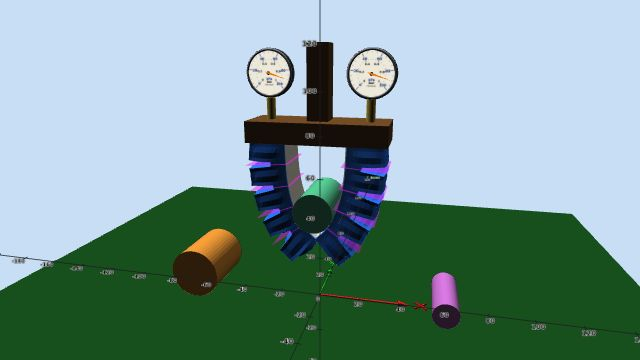
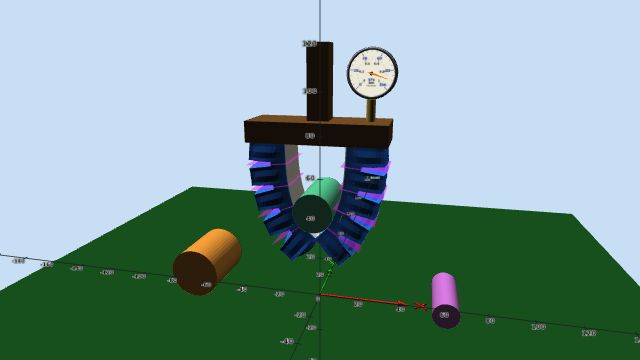
MultiSim: Gripper 4 box, faster flange, gauge beside the arm, lobby intro
- Gripper 4: a large open box fixed to the floor (bin_* parameters, items-in-box
  readout); flange y slider up to 330 mm.
- Grippers 3 and 4: flange acceleration 0.5 m/s2, speed 0.25 m/s.
- Grippers 1-4: the single pressure gauge sits beside the central arm;
  thumbnails re-rendered.
- Simulations page: an introductory paragraph.

Claude-Session: https://claude.ai/code/session_01FSyTfhLHAAQNxCSAHJeZv8

diff --git a/MultiSim/orchestrator/static/index.html b/MultiSim/orchestrator/static/index.html
@@ -21,6 +21,8 @@
 			</div>
 		</header>
 
+		<p class="intro">A collection of simplistic SOFA simulations primarily developed within the CloSer project. The scenes are generally designed to be simulated approximately in real-time and therefore rather simplistic. Multiple visitors can simultaneously interact with the simulations and adjust the settings etc. as each simulation runs in a separate process. If the server becomes overloaded by too many visitors then the maximum number of concurrent simulations may be constrained, or other measures applied. The <a href="https://github.com/vgroenhuis/SOFA_CloSer" target="_blank" rel="noopener">source is public</a>, so you can also clone it and run simulations locally, either natively using SOFA or in a container. More complex and realistic simulations are conducted offline by the team on different computers.</p>
+
 		<section id="mine-section" class="hidden">
 			<h2>Your simulations</h2>
 			<div class="sim-list" id="mine-list"></div>

diff --git a/MultiSim/orchestrator/static/style.css b/MultiSim/orchestrator/static/style.css
@@ -83,6 +83,7 @@ label { color: var(--text-2); font-size: 13px; }
 }
 .page-header p { margin: 4px 0 0; color: var(--muted); }
 .home-link { display: inline-block; margin-bottom: 4px; text-decoration: none; }
+.intro { max-width: 80ch; margin: -12px 0 28px; color: var(--muted); line-height: 1.5; }
 
 section { margin-bottom: 32px; }
 

diff --git a/MultiSim/scenes/gripper-4/sofaweb_scene.py b/MultiSim/scenes/gripper-4/sofaweb_scene.py
@@ -24,7 +24,8 @@ def _world(root):
 class _Probes:
     """The applied pressure; the fingers' bend (the sum of a finger's hinge angles: the tilt of its tip against the
     end-effector, positive curling inwards; the mean over the fingers, and the least and most); where the end-effector
-    is; and per item, how far it has been lifted (its centre above where it started on the floor)."""
+    is; per item, how far it has been lifted (its centre above where it started on the floor); and how many items
+    are in the large box (their centres inside it, below its rim)."""
 
     def __call__(self, root, module):
         build = module.BUILD
@@ -43,9 +44,13 @@ class _Probes:
         values["flange_y"] = (float(p[1]) - rest[1]) * 1000.0
         values["flange_z"] = FLANGE_START_Z + (float(p[2]) - rest[2]) * 1000.0
         items = _world(root).getChild("items")
+        box, inside = build.get("bin"), 0
         for item in build["items"]:
             q = items.getChild(item["key"]).getObject("dofs").position.value[0]
             values[f"{item['key']}_lift"] = max(0.0, (float(q[2]) - item["rest"][2]) * 1000.0)
+            if box and box[0] < float(q[0]) < box[2] and box[1] < float(q[1]) < box[3] and float(q[2]) < box[4]:
+                inside += 1
+        values["in_box"] = float(inside)
         return values
 
 
@@ -67,7 +72,7 @@ def _control_flange(axis, origin=0.0):
 
 
 def _gauge(root, module):
-    """A pressure gauge (see SceneConfig.gauge) above the end-effector's plate, in front of its arm, on a 4 mm tube down
+    """A pressure gauge (see SceneConfig.gauge) above the end-effector's plate, beside its arm, on a 4 mm tube down
     into the plate (every finger gets the same pressure: one gauge). It moves with the end-effector. 0-100 kPa."""
     P = module.PARAMS
     mm = 1e-3
@@ -78,11 +83,11 @@ def _gauge(root, module):
     thick = 0.6 * H
     cz = z_palm + thick + 1.12 * R + 0.6 * H
     casing = cz - 1.12 * R
-    y = -(module.BUILD["stem"] + 0.15 * H)  # just in front of the arm (the default view looks along +y)
+    x = module.BUILD["stem"] + 1.25 * R  # on the +x side of the arm, clear of it (the casing is 1.12 R)
     return {
         "key": "applied", "min": 0.0, "max": 100.0, "unit": "kPa", "major": 20.0, "minor": 5.0,
-        "center": [0.0, y, cz], "radius": R, "right": [1.0, 0.0, 0.0], "up": [0.0, 0.0, 1.0],
-        "tube": [[0.0, y, casing], [0.0, y, 0.5 * (casing + z_palm)], [0.0, y, z_palm]],
+        "center": [x, 0.0, cz], "radius": R, "right": [1.0, 0.0, 0.0], "up": [0.0, 0.0, 1.0],
+        "tube": [[x, 0.0, casing], [x, 0.0, 0.5 * (casing + z_palm)], [x, 0.0, z_palm]],
         "tubeRadius": tube_r,
         # the dial and tube move with the end-effector plate (a model: its bounding box's centre at rest is given)
         "follow": "(^|/)trunk/visual$", "followRest": list(module.BUILD["flange_rest"]),
@@ -112,9 +117,11 @@ _DEFAULT = {
     "floor_size": 600.0,
     "joint_stiffness": 0.34, "joint_damping": 0.01, "joint_open_limit": 90.0, "joint_stop_stiffness": 5.0,
     "pressure_torque_gain": 1.0,
-    "flange_acceleration": 0.06, "flange_speed": 0.15, "flange_mass": 0.5, "wrist_stiffness": 3000.0,
+    "flange_acceleration": 0.5, "flange_speed": 0.25, "flange_mass": 0.5, "wrist_stiffness": 3000.0,
     **{f"item_{k}": True for k in ITEM_KEYS},
     "item_mass_scale": 1.0, "item_spacing": 1.0, "item_yaw": 45.0,
+    "bin_enabled": True, "bin_x": 0.0, "bin_y": 290.0, "bin_length": 220.0, "bin_width": 130.0, "bin_height": 70.0,
+    "bin_wall": 8.0,
     "friction": 0.6, "contact_distance": 0.5, "alarm_distance": 5.0,
     "density": 1000.0, "gravity_enabled": True, "ramp_start": 0.0, "ramp_time": 0.5, "dt": 0.02,
 }
@@ -212,6 +219,12 @@ CONFIG = SceneConfig(
         "contact_distance": (0.05, 5.0),
         "alarm_distance": (0.5, 30.0),
         "item_alpha": (0.0, 1.0),
+        "bin_x": (-600.0, 600.0),
+        "bin_y": (-600.0, 600.0),
+        "bin_length": (40.0, 600.0),
+        "bin_width": (40.0, 600.0),
+        "bin_height": (10.0, 250.0),
+        "bin_wall": (2.0, 40.0),
         "density": (10.0, 20000.0),
         "ramp_start": (0.0, 60.0),
         "ramp_time": (0.0, 60.0),
@@ -229,6 +242,7 @@ CONFIG = SceneConfig(
         ("End-effector motion", ["flange_acceleration", "flange_speed", "flange_mass", "wrist_stiffness"]),
         ("Items on the floor", [f"item_{k}" for k in ITEM_KEYS] + ["item_mass_scale", "item_spacing", "item_yaw",
                                                                    "floor_size"]),
+        ("Large box", ["bin_enabled", "bin_x", "bin_y", "bin_length", "bin_width", "bin_height", "bin_wall"]),
         ("Contact", ["friction", "contact_distance", "alarm_distance"]),
         ("Material", ["density", "gravity_enabled"]),
         ("Simulation", ["dt"]),
@@ -240,9 +254,9 @@ CONFIG = SceneConfig(
         {"key": "flange_x", "label": "Flange x", "type": "slider", "wide": True, "min": -250, "max": 250, "step": 1,
          "default": 0, "unit": "mm", "digits": 0, "apply": _control_flange("X"),
          "description": "Move the end-effector left / right. It moves at a limited speed."},
-        {"key": "flange_y", "label": "Flange y", "type": "slider", "wide": True, "min": -250, "max": 250, "step": 1,
+        {"key": "flange_y", "label": "Flange y", "type": "slider", "wide": True, "min": -250, "max": 330, "step": 1,
          "default": 0, "unit": "mm", "digits": 0, "apply": _control_flange("Y"),
-         "description": "Move the end-effector towards the back (+) or the front (-)."},
+         "description": "Move the end-effector towards the back (+, the large box is at 290 mm) or the front (-)."},
         {"key": "flange_z", "label": "Flange z", "type": "slider", "wide": True, "min": 30, "max": 300, "step": 1,
          "default": FLANGE_START_Z, "unit": "mm", "digits": 0, "apply": _control_flange("Z", FLANGE_START_Z),
          "description": "Height of the end-effector's underside above the floor: lower it to put the fingers "
@@ -254,6 +268,7 @@ CONFIG = SceneConfig(
         {"key": "joint_alpha", "label": "Hinge mark opacity", "type": "opacity", "models": r"(^|/)bodies/joint_marks/visual$"},
         {"key": "item_alpha", "label": "Item opacity", "type": "opacity",
          "models": r"(^|/)items/[^/]+/(visu|detail\d+)/visual$"},
+        {"key": "bin_alpha", "label": "Large box opacity", "type": "opacity", "models": r"^/bin/(visu|bottom)/visual$"},
         {"key": "floor_alpha", "label": "Floor opacity", "type": "opacity", "models": r"^/floor/visu/visual$"},
         {"key": "mount_alpha", "label": "End-effector opacity", "type": "opacity", "models": r"(^|/)trunk/visual$"},
         {"key": "axes_alpha", "label": "Coordinate axes (X, Y) opacity", "type": "opacity",
@@ -284,6 +299,7 @@ CONFIG = SceneConfig(
         {"key": "flange_x", "label": "flange x", "digits": 1, "unit": "mm"},
         {"key": "flange_y", "label": "flange y", "digits": 1, "unit": "mm"},
         {"key": "flange_z", "label": "flange z", "digits": 1, "unit": "mm"},
+        {"key": "in_box", "label": "items in the box", "digits": 0, "unit": ""},
     ] + [{"key": f"{k}_lift", "label": f"{ITEM_LABELS[k]} lifted", "digits": 1, "unit": "mm"} for k in ITEM_KEYS],
     stop_at=None,  # interactive: it keeps running
     about=[
@@ -291,10 +307,14 @@ CONFIG = SceneConfig(
         "tomato, an egg, a soda can, a juice box, a spice jar, a yogurt cup, a tea box and a block of butter, with their "
         "real sizes and masses. The number of fingers is a parameter (four by default); they hang from the end-effector "
         "evenly spaced around its axis and curl inwards. In the Controls panel, the pressure slider inflates every finger, "
-        "and the three flange sliders move the end-effector at a limited acceleration and speed.",
+        "and the three flange sliders move the end-effector at a limited acceleration (0.5 m/s2) and speed (0.25 m/s). At "
+        "the back is a large open box fixed to the floor (inside 220 x 130 mm, 70 mm deep, at y = 290 mm) to put the "
+        "items in.",
         "To pick something up: raise the flange high enough to clear it (190 mm at the start), move it over the item (x, "
         "y), lower it until the fingers hang around it (about 60 mm for the egg, the tomato and the apple; just above the "
-        "top for a tall item, e.g. 118 mm for the can), raise the pressure (80 kPa), then raise the flange. The items are "
+        "top for a tall item, e.g. 118 mm for the can), raise the pressure (80 kPa), then raise the flange. To put it in "
+        "the box: raise the flange until the item clears the box's walls (300 mm for the can), move it to y = 290 mm, "
+        "lower it a little and release the pressure. The items are "
         "rigid bodies with friction (0.6): they can be held by friction alone, or by the fingers curling under them, and "
         "they slide, roll and tip over. The butter is too long for four fingers: use the 'Two fingers' preset.",
         "Each finger is a chain of six rigid segments with Gripper 3's hinges (0.34 N m/rad; pressure is a torque of 0.086 "

diff --git a/MultiSim/scenes/gripper-4/original/Gripper4.py b/MultiSim/scenes/gripper-4/original/Gripper4.py
@@ -37,6 +37,9 @@ accelerates smoothly towards the x / y / z set by the sliders (`flange_accelerat
 2 and 3. The spring lets it give way when it is pushed onto the floor or an item (a few millimetres for a few
 newtons), and it moves with a velocity, so that friction carries what it holds along.
 
+The large box. An open box fixed to the floor (`bin_*`: its inside, walls and where it is; at the back by default), to
+put items in: four walls (a static collision model; its bottom is the floor).
+
 Units: the scene is SI (metres, kg, s, Pa); params.json takes millimetres for lengths, as labelled.
 
 
@@ -94,8 +97,8 @@ _DEFAULT_PARAMS = {
     'joint_open_limit': 90.0,    # [deg] largest bend of a hinge (a hard stop beyond it)
     'joint_stop_stiffness': 5.0, # [N m/rad] the hard stops
     'pressure_torque_gain': 1.0, # 1: the torque of the pressure on the cavity's cross-section (see the docstring)
-    'flange_acceleration': 0.06,      # [m/s2] largest acceleration of the end-effector
-    'flange_speed': 0.15,             # [m/s] its largest speed
+    'flange_acceleration': 0.5,       # [m/s2] largest acceleration of the end-effector
+    'flange_speed': 0.25,             # [m/s] its largest speed
     'flange_mass': 0.5,               # [kg] the end-effector (it follows the target on the wrist spring)
     'wrist_stiffness': 3000.0,        # [N/m] the spring between the target and the end-effector (critically damped)
     # -- the items on the floor, and the contacts --
@@ -108,6 +111,14 @@ _DEFAULT_PARAMS = {
     'contact_distance': 0.5,     # [mm] contacts are kept this far apart
     'alarm_distance': 5.0,       # [mm] pairs closer than this are watched for contact
     'item_alpha': 1.0,
+    # -- a large open box fixed to the floor, to put items in --
+    'bin_enabled': True,
+    'bin_x': 0.0, 'bin_y': 290.0,   # [mm] its centre
+    'bin_length': 220.0,            # [mm] inside, along x
+    'bin_width': 130.0,             # [mm] inside, along y
+    'bin_height': 70.0,             # [mm] its walls
+    'bin_wall': 8.0,                # [mm] their thickness
+    'bin_alpha': 1.0,
     # -- material --
     'density': 1000.0,           # [kg/m^3] of the silicone (the segment's mass: the walls' volume)
     'gravity_enabled': True,
@@ -349,7 +360,7 @@ def _cylinder_along(p0, p1, r, n=16):
 # The fingers' collision models: their faces and corners (their edges too would add many edge-edge contacts per item held,
 # several times slower, for little difference: an item's own corners and edges still touch the fingers' faces)
 FINGER_MODELS = ('TriangleCollisionModel', 'PointCollisionModel')
-FINGERS_GROUP, ITEMS_GROUP = 100, 200  # collision groups (see createScene); item i has ITEMS_GROUP + i
+FINGERS_GROUP, ITEMS_GROUP, BIN_GROUP = 100, 200, 300  # collision groups (see createScene); item i has ITEMS_GROUP + i
 IDENTITY = [0.0, 0.0, 0.0, 1.0]  # every body's orientation at rest (the geometry is given in world coordinates and mapped)
 
 
@@ -622,8 +633,15 @@ def createScene(rootNode):
     z_top = z_palm + thick + 1.12 * R_gauge + 0.6 * H + R_gauge  # the top of the gauge
     spacing = max(float(P['item_spacing']), 0.1)
     half = max(P['floor_size'] * MM, 3 * extent) / 2
+    bin_box = None  # the large box's inside (x0, y0, x1, y1), its height and wall thickness [m]
+    if P['bin_enabled']:
+        bl, bw = max(float(P['bin_length']), 10.0) * MM / 2, max(float(P['bin_width']), 10.0) * MM / 2
+        bx, by = float(P['bin_x']) * MM, float(P['bin_y']) * MM
+        bt = max(float(P['bin_wall']), 1.0) * MM
+        bin_box = (bx - bl, by - bw, bx + bl, by + bw, max(float(P['bin_height']), 5.0) * MM, bt)
+        half = max(half, abs(bx) + bl + bt + 30 * MM, abs(by) + bw + bt + 30 * MM)
 
-    cam_lookat = [0.0, 0.0, 0.35 * z_top]
+    cam_lookat = [0.0, 0.3 * (bin_box[1] + bin_box[3]) / 2 if bin_box else 0.0, 0.35 * z_top]
     cam_dir = (0.25, -1.0, 0.75)
     norm = math.sqrt(sum(c * c for c in cam_dir))
     cam_distance = max(1.25 * z_top, 1.05 * (140 * MM * spacing + 60 * MM)) / math.tan(math.radians(22.5))
@@ -647,6 +665,29 @@ def createScene(rootNode):
     floor_visual.addObject('MeshTopology', name='topo', triangles=[[0, 1, 2], [0, 2, 3]],
                            position=[[p[0], p[1], p[2] - 1e-4] for p in floor_pts])
     floor_visual.addObject('OglModel', name='visual', src='@topo', color=[0.08, 0.28, 0.1, 1.0])
+
+    # ---- the large box: four walls fixed to the floor (its bottom is the floor), open at the top
+    if bin_box:
+        x0, y0, x1, y1, bh, bt = bin_box
+        walls = [_box(x0 - bt, y0 - bt, floor_z, x1 + bt, y0, floor_z + bh, skip=('-Z',)),   # front
+                 _box(x0 - bt, y1, floor_z, x1 + bt, y1 + bt, floor_z + bh, skip=('-Z',)),   # back
+                 _box(x0 - bt, y0, floor_z, x0, y1, floor_z + bh, skip=('-Z', '-Y', '+Y')),  # left
+                 _box(x1, y0, floor_z, x1 + bt, y1, floor_z + bh, skip=('-Z', '-Y', '+Y'))]  # right
+        wall_pts, wall_tris = _merge(walls)
+        bin_node = rootNode.addChild('bin')
+        bin_node.addObject('MeshTopology', name='topo', position=wall_pts, triangles=wall_tris)
+        bin_node.addObject('MechanicalObject', name='dofs', template='Vec3', position=wall_pts)
+        for model in ('TriangleCollisionModel', 'LineCollisionModel', 'PointCollisionModel'):
+            # (in BIN_GROUP: the fingers' guards pass through it)
+            bin_node.addObject(model, moving=False, simulated=False, group=[BIN_GROUP])
+        alpha = float(P['bin_alpha'])
+        for name, (vp, vt), colour in (
+                ('visu', _flat_shaded(wall_pts, wall_tris), [0.74, 0.56, 0.36]),
+                ('bottom', _flat_shaded(*_box(x0, y0, floor_z - 1e-4, x1, y1, floor_z + 0.3 * MM, skip=('-Z',))),
+                 [0.62, 0.45, 0.28])):
+            v = bin_node.addChild(name)
+            v.addObject('MeshTopology', name='topo', position=vp, triangles=vt)
+            v.addObject('OglModel', name='visual', src='@topo', color=colour + [alpha])
 
     # Axes: purely visual.
     arrow_ref = 0.6 * max(finger_len, W, H)
@@ -800,7 +841,7 @@ def createScene(rootNode):
             node.addObject('MeshTopology', name='topo', position=corners, triangles=tris)
             node.addObject('MechanicalObject', name='dofs', template='Vec3', position=corners)
             node.addObject('TriangleCollisionModel', group=[j + 1 for j in range(F) if j != fr.k]
-                           + [ITEMS_GROUP + i for i in range(len(ITEMS))])
+                           + [ITEMS_GROUP + i for i in range(len(ITEMS))] + [BIN_GROUP])
             node.addObject('RigidMapping', name='mapping', globalToLocalCoords=True, rigidIndexPerPoint=[0] * 4)
 
     pad, stem = 0.1 * H, 0.3 * H
@@ -869,7 +910,7 @@ def createScene(rootNode):
     BUILD.update({'segments': N, 'fingers': F, 'items': [], 'body_of': dict(body_of), 'flange_rest0': list(flange_pos),
                   'flange_rest': [(min(p[q] for p in mount_pts) + max(p[q] for p in mount_pts)) / 2 for q in range(3)],
                   'cavity_mid': cavity_mid, 'cavity_area': cavity_area, 'torque_per_pa': torque_per_pa,
-                  'close_limit': close_lim, 'seg_mass': seg_mass, 'plate_radius': plate_r, 'stem': stem})
+                  'close_limit': close_lim, 'bin': list(bin_box) if bin_box else None, 'seg_mass': seg_mass, 'plate_radius': plate_r, 'stem': stem})
 
     # ---- the grocery items: free rigid bodies on the floor
     items = world.addChild('items')

diff --git a/MultiSim/scenes/gripper-4/original/params_editor.py b/MultiSim/scenes/gripper-4/original/params_editor.py
@@ -44,8 +44,8 @@ _DEFAULTS = {
     'joint_open_limit': 90.0,    # [deg] largest bend of a hinge (a hard stop beyond it)
     'joint_stop_stiffness': 5.0, # [N m/rad] the hard stops
     'pressure_torque_gain': 1.0, # 1: the torque of the pressure on the cavity's cross-section (see the docstring)
-    'flange_acceleration': 0.06,      # [m/s2] largest acceleration of the end-effector
-    'flange_speed': 0.15,             # [m/s] its largest speed
+    'flange_acceleration': 0.5,       # [m/s2] largest acceleration of the end-effector
+    'flange_speed': 0.25,             # [m/s] its largest speed
     'flange_mass': 0.5,               # [kg] the end-effector (it follows the target on the wrist spring)
     'wrist_stiffness': 3000.0,        # [N/m] the spring between the target and the end-effector (critically damped)
     # -- the items on the floor, and the contacts --
@@ -58,6 +58,13 @@ _DEFAULTS = {
     'contact_distance': 0.5,     # [mm] contacts are kept this far apart
     'alarm_distance': 5.0,       # [mm] pairs closer than this are watched for contact
     'item_alpha': 1.0,
+    'bin_enabled': True,
+    'bin_x': 0.0, 'bin_y': 290.0,
+    'bin_length': 220.0,
+    'bin_width': 130.0,
+    'bin_height': 70.0,
+    'bin_wall': 8.0,
+    'bin_alpha': 1.0,
     # -- material --
     'density': 1000.0,           # [kg/m^3] of the silicone (the segment's mass: the walls' volume)
     'gravity_enabled': True,
@@ -145,6 +152,13 @@ _FIELDS = [
     ('Contact distance',                       'contact_distance',    1, 2, 'mm'),
     ('Contact watch distance',                 'alarm_distance',      1, 2, 'mm'),
     ('Item opacity',                           'item_alpha',          1, 2, ''),
+    ('Large box: centre x',                    'bin_x',               1, 1, 'mm'),
+    ('Large box: centre y',                    'bin_y',               1, 1, 'mm'),
+    ('Large box: inside length (x)',           'bin_length',          1, 1, 'mm'),
+    ('Large box: inside width (y)',            'bin_width',           1, 1, 'mm'),
+    ('Large box: wall height',                 'bin_height',          1, 1, 'mm'),
+    ('Large box: wall thickness',              'bin_wall',            1, 1, 'mm'),
+    ('Large box opacity',                      'bin_alpha',           1, 2, ''),
     ('Silicone density',                       'density',             1, 1, 'kg/m3'),
     ('Pressure ramp start',                    'ramp_start',          1, 2, 's'),
     ('Pressure ramp time',                     'ramp_time',           1, 2, 's'),
@@ -163,6 +177,7 @@ _BOOL_FIELDS = [
     ('Yogurt cup (150 g)', 'item_yogurt', True),
     ('Tea box (90 g)', 'item_tea', True),
     ('Butter (250 g)', 'item_butter', True),
+    ('A large open box on the floor', 'bin_enabled', True),
     ('Apply pressure instantly (not gradual)', 'instant', False),
     ('Enable gravity', 'gravity_enabled', True),
     ('Show the hinges as orange marks', 'show_joint_marks', True),

diff --git a/MultiSim/scenes/gripper-3/sofaweb_scene.py b/MultiSim/scenes/gripper-3/sofaweb_scene.py
@@ -91,10 +91,11 @@ def _gauge(root, module):
     cz = z_palm + thick + 1.12 * R + 0.6 * H
     casing = cz - 1.12 * R
     cavity_x = P["finger_gap"] * mm / 2 + module.BUILD["cavity_mid"]  # the cavity's mid height across the finger
-    # both fingers always get the same pressure: one gauge, in the middle
+    # both fingers always get the same pressure: one gauge, on the +x side (clear of the arm up the middle, 0.3 H
+    # either side of the axis; the casing is 1.12 R)
     gauges = []
     for k, side in zip(FINGERS[:1], (1.0,)):
-        x = 0.0
+        x = max(cavity_x, 0.3 * H + 1.25 * R)
         gauges.append({
             "key": f"applied_{k}", "min": 0.0, "max": 100.0, "unit": "kPa", "major": 20.0, "minor": 5.0,
             "center": [x, 0.0, cz], "radius": R, "right": [1.0, 0.0, 0.0], "up": [0.0, 0.0, 1.0],
@@ -131,7 +132,7 @@ _DEFAULT = {
     "floor_size": 320.0, "finger_gap": 28.0,
     "cylinder_radii": [12.0, 9.0, 6.0], "cylinder_x": [-60.0, 0.0, 60.0], "cylinder_length": 30.0,
     "cylinder_density": 600.0, "cylinder_damping": 0.2, "contact_stiffness": 1.0e3, "contact_whole_skin": False,
-    "flange_acceleration": 0.06, "flange_speed": 0.15,
+    "flange_acceleration": 0.5, "flange_speed": 0.25,
 }
 
 PRESETS = {
@@ -316,7 +317,7 @@ CONFIG = SceneConfig(
         "Everything is planar (x, z and the rotation about y), so a step takes only a few milliseconds: it runs faster than "
         "real time, where Gripper 2 needs 0.2 s. The solver is implicit with a small stiffness-proportional damping ('joint "
         "damping'); the joints' own velocity damping is explicit, which is unstable for bodies this light. The flange "
-        "accelerates gently (0.06 m/s2, up to 150 mm/s; live parameters under 'Flange motion').",
+        "accelerates at up to 0.5 m/s2, up to 250 mm/s (live parameters under 'Flange motion').",
     ],
     origin="Scene script: scenes/gripper-3/original/Gripper3.py (a rigid-segment version of scenes/gripper-2).",
 )

diff --git a/MultiSim/scenes/gripper-1/sofaweb_scene.py b/MultiSim/scenes/gripper-1/sofaweb_scene.py
@@ -146,13 +146,15 @@ def _gauge(root, module):
     pressures = P["pressures"] if isinstance(P["pressures"], (list, tuple)) and P["pressures"] else [P["pressures"]]
     target = max(abs(float(v)) for v in pressures)
     top = next((v for v in (10, 20, 25, 50, 100, 200, 250, 500, 1000, 2000) if v >= 1.25 * target), 2000)
-    # one gauge (in the middle) while both fingers get the same pressure, else one per finger
+    # one gauge (on the +x side, clear of the arm up the middle) while both fingers get the same pressure, else one
+    # per finger
     same = len({round(abs(float(v)), 9) for v in pressures}) <= 1
+    side_x = max(cavity_x, 0.3 * H + 1.25 * R)  # (the arm is 0.3 H either side of the axis; the casing 1.12 R)
     gauges = []
     for k, side in zip(FINGERS, (1.0, -1.0)):
         if same and k != FINGERS[0]:
             break
-        x = 0.0 if same else side * cavity_x
+        x = side_x if same else side * cavity_x
         gauges.append({
             "key": f"applied_{k}", "min": 0.0, "max": float(top), "unit": "kPa", "major": top / 5.0, "minor": top / 20.0,
             "center": [x, 0.0, cz], "radius": R, "right": [1.0, 0.0, 0.0], "up": [0.0, 0.0, 1.0],

diff --git a/MultiSim/scenes/gripper-3/original/Gripper3.py b/MultiSim/scenes/gripper-3/original/Gripper3.py
@@ -73,8 +73,8 @@ _DEFAULT_PARAMS = {
     'pin_stiffness': 2.0e4,      # [N/m] holds the two halves of a hinge together
     'joint_stop_stiffness': 5.0, # [N m/rad] the hard stops, and the weld to the end-effector
     'pressure_torque_gain': 1.0, # 1: the torque of the pressure on the cavity's cross-section (see the docstring)
-    'flange_acceleration': 0.06,      # [m/s2] largest acceleration of the flange
-    'flange_speed': 0.15,             # [m/s] its largest speed
+    'flange_acceleration': 0.5,       # [m/s2] largest acceleration of the flange
+    'flange_speed': 0.25,             # [m/s] its largest speed
     'finger_gap': 28.0,               # [mm] between the two fingers' inner faces (their base layers)
     # -- the loose cylinders on the floor (rigid, axis along Y), and the contact with them
     'cylinder_radii': [12.0, 9.0, 6.0],   # [mm]

diff --git a/MultiSim/scenes/gripper-3/original/params_editor.py b/MultiSim/scenes/gripper-3/original/params_editor.py
@@ -42,8 +42,8 @@ _DEFAULTS = {
     'pin_stiffness': 2.0e4,      # [N/m] holds the two halves of a hinge together
     'joint_stop_stiffness': 5.0, # [N m/rad] the hard stops, and the weld to the end-effector
     'pressure_torque_gain': 1.0, # 1: the torque of the pressure on the cavity's cross-section (see the docstring)
-    'flange_acceleration': 0.06,      # [m/s2] largest acceleration of the flange
-    'flange_speed': 0.15,             # [m/s] its largest speed
+    'flange_acceleration': 0.5,       # [m/s2] largest acceleration of the flange
+    'flange_speed': 0.25,             # [m/s] its largest speed
     'finger_gap': 28.0,               # [mm] between the two fingers' inner faces (their base layers)
     # -- the loose cylinders on the floor (rigid, axis along Y), and the contact with them
     'cylinder_radii': [12.0, 9.0, 6.0],   # [mm]

diff --git a/MultiSim/scenes/gripper-2/sofaweb_scene.py b/MultiSim/scenes/gripper-2/sofaweb_scene.py
@@ -133,10 +133,11 @@ def _gauge(root, module):
     cz = z_palm + thick + 1.12 * R + 0.6 * H
     casing = cz - 1.12 * R
     cavity_x = P["finger_gap"] * mm / 2 + 0.5 * (g.wb + g.H - g.wt) * mm  # the cavity's mid height across the finger
-    # both fingers always get the same pressure: one gauge, in the middle
+    # both fingers always get the same pressure: one gauge, on the +x side (clear of the arm up the middle, 0.3 H
+    # either side of the axis; the casing is 1.12 R)
     gauges = []
     for k, side in zip(FINGERS[:1], (1.0,)):
-        x = 0.0
+        x = max(cavity_x, 0.3 * H + 1.25 * R)
         gauges.append({
             "key": f"applied_{k}", "min": 0.0, "max": 100.0, "unit": "kPa", "major": 20.0, "minor": 5.0,
             "center": [x, 0.0, cz], "radius": R, "right": [1.0, 0.0, 0.0], "up": [0.0, 0.0, 1.0],
